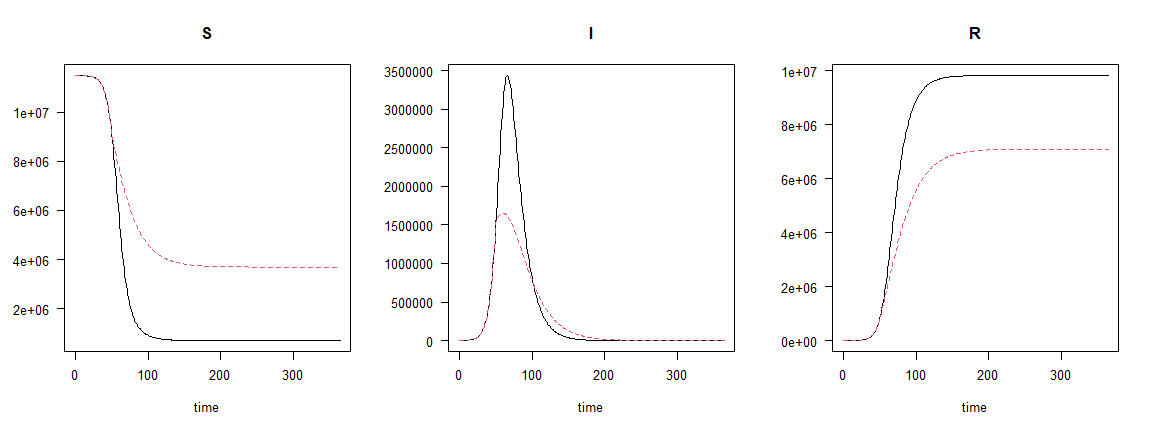
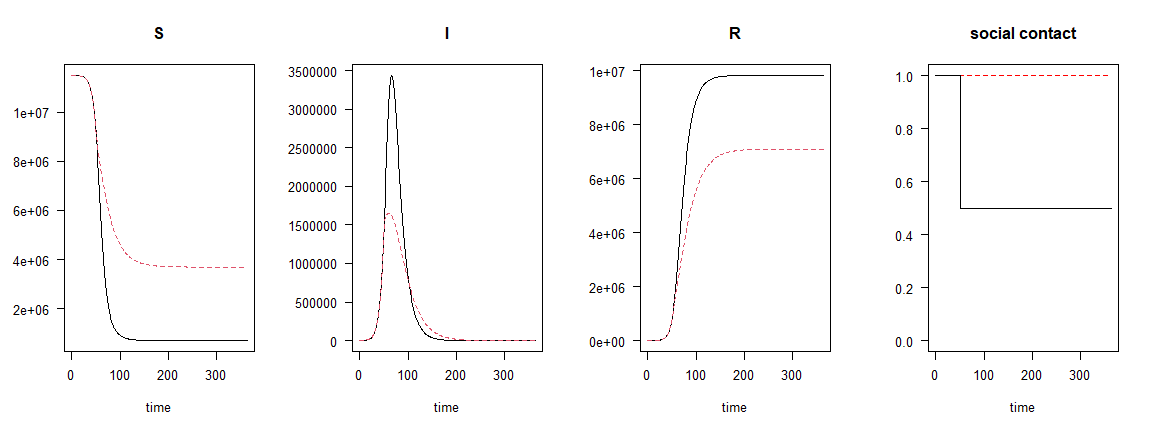
slide tweaks

diff --git a/docs/index.html b/docs/index.html
@@ -4,7 +4,7 @@
     <title>Numerical simulation of dynamic systems with R: an introduction</title>
     <meta charset="utf-8" />
     <meta name="author" content="Thomas Petzoldt and Karline Soetaert" />
-    <meta name="date" content="2021-06-15" />
+    <meta name="date" content="2021-06-18" />
     <script src="libs/header-attrs-2.8.4/header-attrs.js"></script>
     <link href="libs/remark-css-0.0.1/default.css" rel="stylesheet" />
     <link href="libs/remark-css-0.0.1/useR-fonts.css" rel="stylesheet" />
@@ -26,7 +26,7 @@ background-image: url("img/water-light.jpg")
 
 # Numerical simulation of dynamic systems with R: an introduction
 
-### Thomas Petzoldt and Karline Soetaert,  2021-06-15
+### Thomas Petzoldt and Karline Soetaert,  2021-06-18
 
 #### IMPORTANT NOTE
 
@@ -46,7 +46,7 @@ For the time being, please consult http://desolve.r-forge.r-project.org
 ---
 
 
-## Preface
+## Summary
 
 
 Dynamical systems are found everywhere, in mathematics, physics, chemistry, engineering and business - ecology and aquatic sciences are no exception.
@@ -201,8 +201,8 @@ J.W. Forrester 2009.
 \frac{dX}{dt} = \mbox{import} - \mbox{export}\\
 }$$`
 
-<div id="htmlwidget-f980fb3c278ccf86e885" style="width:1008px;height:288px;" class="grViz html-widget"></div>
-<script type="application/json" data-for="htmlwidget-f980fb3c278ccf86e885">{"x":{"diagram":"digraph feedback {\n         graph [rankdir = \"LR\"]\n           node [shape = box, penwidth=2, fontname = \"Helvetica\"]\n             Matter\n           node [shape = octagon, penwidth=0.5, style=\"rounded\", fixedsize=25, fontsize=8]\n             Source Sink\n           node [shape = none, fontsize=10]\n             import export\n           edge [penwidth=1.5]\n             Source -> import -> Matter -> export -> Sink\n         \n}","config":{"engine":"dot","options":null}},"evals":[],"jsHooks":[]}</script>
+<div id="htmlwidget-13da4407802a5132ab74" style="width:1008px;height:288px;" class="grViz html-widget"></div>
+<script type="application/json" data-for="htmlwidget-13da4407802a5132ab74">{"x":{"diagram":"digraph feedback {\n         graph [rankdir = \"LR\"]\n           node [shape = box, penwidth=2, fontname = \"Helvetica\"]\n             Matter\n           node [shape = octagon, penwidth=0.5, style=\"rounded\", fixedsize=25, fontsize=8]\n             Source Sink\n           node [shape = none, fontsize=10]\n             import export\n           edge [penwidth=1.5]\n             Source -> import -> Matter -> export -> Sink\n         \n}","config":{"engine":"dot","options":null}},"evals":[],"jsHooks":[]}</script>
 
 
 
@@ -214,8 +214,8 @@ J.W. Forrester 2009.
 \frac{dN}{dt} = \mbox{birthhrate} \cdot N - \mbox{deathrate}\cdot N\\
 \frac{dN}{dt} = b \cdot N - d \cdot N = (b-d) \cdot N = r \cdot N\\
 }$$`
-<div id="htmlwidget-3608ecf289aad2fdfcbb" style="width:1008px;height:288px;" class="grViz html-widget"></div>
-<script type="application/json" data-for="htmlwidget-3608ecf289aad2fdfcbb">{"x":{"diagram":"digraph feedback {\n         graph [rankdir = \"LR\"]\n           node [shape = box, penwidth=2, fontname = \"Helvetica\"]\n             Population\n           node [shape = octagon, penwidth=0.5, style=\"rounded\", fixedsize=25, fontsize=8]\n             Source Sink\n           node [shape = none, fontsize=10]\n             birth death\n           edge [penwidth=1.5]\n             Source -> birth -> Population -> death -> Sink\n           edge [penwidth=0.7, tailport = \"n\", headport = \"n\", constraint = false, color=tomato]\n             Population -> birth \n             Population -> death\n}","config":{"engine":"dot","options":null}},"evals":[],"jsHooks":[]}</script>
+<div id="htmlwidget-75c16dcaa22e77542c53" style="width:1008px;height:288px;" class="grViz html-widget"></div>
+<script type="application/json" data-for="htmlwidget-75c16dcaa22e77542c53">{"x":{"diagram":"digraph feedback {\n         graph [rankdir = \"LR\"]\n           node [shape = box, penwidth=2, fontname = \"Helvetica\"]\n             Population\n           node [shape = octagon, penwidth=0.5, style=\"rounded\", fixedsize=25, fontsize=8]\n             Source Sink\n           node [shape = none, fontsize=10]\n             birth death\n           edge [penwidth=1.5]\n             Source -> birth -> Population -> death -> Sink\n           edge [penwidth=0.7, tailport = \"n\", headport = \"n\", constraint = false, color=tomato]\n             Population -> birth \n             Population -> death\n}","config":{"engine":"dot","options":null}},"evals":[],"jsHooks":[]}</script>
 
 
 ---
@@ -245,6 +245,8 @@ plot(time, N, type="l")
 \ln(N) &amp;= rt + c\\
 N_t &amp;= N_0 e^{rt}\\
 \end{align}`
+
+&lt;br&gt;&lt;/br&gt;
 
 * Integral calculus = "Gold Standard" ...
 * ... but not always possible
@@ -280,6 +282,8 @@ plot(time, N, type = "l",
 N_t &amp;= N_{t-1} + r\cdot N_{t-1}
 \end{align}`
 
+&lt;br&gt;&lt;/br&gt;
+
 * differential equation `\(\rightarrow\)` difference equation
 * approximation with discrete time step
 * easy, but integration error
@@ -301,7 +305,7 @@ N_t &amp;= N_{t-1} + r\cdot N_{t-1}
 library("deSolve")
 model &lt;- function (time, y, parms) {
   with(as.list(c(y, parms)), {
-*  dN &lt;- r * N * (1 - N / K)
+*   dN &lt;- r * N * (1 - N / K)
     list(c(dN))
   })
 }
@@ -427,8 +431,8 @@ out &lt;- ode(y0,
 
 
 
-<div id="htmlwidget-d4a5a7eadf01ec1750b5" style="width:1008px;height:144px;" class="grViz html-widget"></div>
-<script type="application/json" data-for="htmlwidget-d4a5a7eadf01ec1750b5">{"x":{"diagram":"digraph feedback {\n         graph [rankdir = \"LR\"]\n           node [shape = box, penwidth=2, fontname = \"Helvetica\"]\n             Nutrient, Algae\n           node [shape = none, fontsize=10]\n             growth\n           edge [penwidth=1.5]\n             Nutrient -> growth -> Algae \n           edge [penwidth=0.7, tailport = \"n\", headport = \"n\", constraint = false, color=tomato]\n             Algae -> growth \n}","config":{"engine":"dot","options":null}},"evals":[],"jsHooks":[]}</script>
+<div id="htmlwidget-712b857eb9e7b5e856aa" style="width:1008px;height:144px;" class="grViz html-widget"></div>
+<script type="application/json" data-for="htmlwidget-712b857eb9e7b5e856aa">{"x":{"diagram":"digraph feedback {\n         graph [rankdir = \"LR\"]\n           node [shape = box, penwidth=2, fontname = \"Helvetica\"]\n             Nutrient, Algae\n           node [shape = none, fontsize=10]\n             growth\n           edge [penwidth=1.5]\n             Nutrient -> growth -> Algae \n           edge [penwidth=0.7, tailport = \"n\", headport = \"n\", constraint = false, color=tomato]\n             Algae -> growth \n}","config":{"engine":"dot","options":null}},"evals":[],"jsHooks":[]}</script>
 
 
 ---
@@ -436,21 +440,21 @@ out &lt;- ode(y0,
 
 ### System of equations
 
-<div id="htmlwidget-eef35bd262ebbcc1099c" style="width:1008px;height:144px;" class="grViz html-widget"></div>
-<script type="application/json" data-for="htmlwidget-eef35bd262ebbcc1099c">{"x":{"diagram":"digraph feedback {\n         graph [rankdir = \"LR\"]\n           node [shape = box, penwidth=2, fontname = \"Helvetica\"]\n             Nutrient, Algae\n           node [shape = none, fontsize=10]\n             growth\n           edge [penwidth=1.5]\n             Nutrient -> growth -> Algae \n           edge [penwidth=0.7, tailport = \"n\", headport = \"n\", constraint = false, color=tomato]\n             Algae -> growth \n}","config":{"engine":"dot","options":null}},"evals":[],"jsHooks":[]}</script>
+<div id="htmlwidget-7ffc19037c449f25c42b" style="width:1008px;height:144px;" class="grViz html-widget"></div>
+<script type="application/json" data-for="htmlwidget-7ffc19037c449f25c42b">{"x":{"diagram":"digraph feedback {\n         graph [rankdir = \"LR\"]\n           node [shape = box, penwidth=2, fontname = \"Helvetica\"]\n             Nutrient, Algae\n           node [shape = none, fontsize=10]\n             growth\n           edge [penwidth=1.5]\n             Nutrient -> growth -> Algae \n           edge [penwidth=0.7, tailport = \"n\", headport = \"n\", constraint = false, color=tomato]\n             Algae -> growth \n}","config":{"engine":"dot","options":null}},"evals":[],"jsHooks":[]}</script>
 
 ----
 
 `\begin{align}
-\frac{d\mbox{Algae}}{dt} &amp;=       &amp; &amp;r \cdot f(\mbox{Nutrients}) \cdot \mbox{Algae}\\
+\frac{d\mbox{Algae}}{dt} &amp;=       &amp; &amp;r \cdot f(\mbox{Nutrient}) \cdot \mbox{Algae}\\
 \\
-\frac{d\mbox{Nutrients}}{dt} &amp;=   &amp;- &amp; r \cdot f(\mbox{Nutrients}) \cdot  \mbox{Algae} \cdot \frac{1}{Y} 
+\frac{d\mbox{Nutrient}}{dt} &amp;=   &amp;- &amp; r \cdot f(\mbox{Nutrient}) \cdot  \mbox{Algae} \cdot \frac{1}{Y} 
 \end{align}`
 
 with:
 
 $$
-f(\mbox{Nutrients}) =  \text{functional response, e.g. Holling I, II, III}
+f(\mbox{Nutrient}) =  \text{functional response, e.g. Holling I, II, III}
 $$
 
 
@@ -465,12 +469,15 @@ $$
 model &lt;- function (time, y, parms) {
   with(as.list(c(y, parms)), {
     f &lt;- P/(kP + P)
-    dAlg &lt;- r * f * Alg
-    dP   &lt;- - r * 1/Y * f * Alg
-    list(c(dAlg, dP))
+    dAlg_dt &lt;- r * f * Alg
+    dP_dt   &lt;- - r * 1/Y * f * Alg
+    list(c(dAlg_dt, dP_dt))
   })
 }
-y &lt;- c(Alg = 0.1, P = 0.2) # in mg/L
+y &lt;- c(
+  Alg = 0.1, # algae,      mg/L carbon
+  P   = 0.2  # phosphorus, mg/L P
+) # in mg/L
 parms &lt;- c(r = 0.1, kP = 5e-3, Y = 41) # Y = C:P mass ratio
 ```
 
@@ -529,8 +536,8 @@ legend("topright", legend=c("Scenario 1", "Scenario 2"), lty=1:2, col=1:2)
 
 ## A standard SIR model
 
-<div id="htmlwidget-8bd7e9b64a3d675a5486" style="width:1008px;height:288px;" class="grViz html-widget"></div>
-<script type="application/json" data-for="htmlwidget-8bd7e9b64a3d675a5486">{"x":{"diagram":"digraph feedback {\n         graph [rankdir = \"LR\"]\n           node [shape = box, penwidth=2, fontname = \"Helvetica\", style=\"filled\", color=\"dodgerblue\"]\n             S, I, R\n           node [shape = none, fontsize=10, style=\"\"]\n             infection, recovery, mortality\n            node [shape = octagon, penwidth=0.5, style=\"rounded\", fixedsize=25, fontsize=8]\n             X\n           edge [penwidth=1.5]\n             S -> infection -> I\n             I -> recovery -> R\n             I -> mortality\n             mortality -> X\n}","config":{"engine":"dot","options":null}},"evals":[],"jsHooks":[]}</script>
+<div id="htmlwidget-7aa1a22d78909258bd52" style="width:1008px;height:288px;" class="grViz html-widget"></div>
+<script type="application/json" data-for="htmlwidget-7aa1a22d78909258bd52">{"x":{"diagram":"digraph feedback {\n         graph [rankdir = \"LR\"]\n           node [shape = box, penwidth=2, fontname = \"Helvetica\", style=\"filled\", color=\"dodgerblue\"]\n             S, I, R\n           node [shape = none, fontsize=10, style=\"\"]\n             infection, recovery, mortality\n            node [shape = octagon, penwidth=0.5, style=\"rounded\", fixedsize=25, fontsize=8]\n             X\n           edge [penwidth=1.5]\n             S -> infection -> I\n             I -> recovery -> R\n             I -> mortality\n             mortality -> X\n}","config":{"engine":"dot","options":null}},"evals":[],"jsHooks":[]}</script>
 
 #### Total population is subdivided into 3 subpopulations
 
@@ -618,21 +625,21 @@ plot(out, las=1, mfrow=c(1,4))
 ```r
 SIR_distancing &lt;- function(t, state, parameters) {
   with (as.list(c(state, parameters)), {
-    rho &lt;- f_rho(t)
-    Infection &lt;- rho * b * S * I
+*   contact &lt;- f_contact(t)
+    Infection &lt;- contact * b * S * I
     Recovery  &lt;- g * I
     Mortality &lt;- m * I
     
-    dSdt      &lt;- -Infection 
-    dIdt      &lt;-  Infection - Recovery - Mortality
-    dRdt      &lt;-  Recovery
+    dS_dt     &lt;- -Infection 
+    dI_dt     &lt;-  Infection - Recovery - Mortality
+    dR_dt     &lt;-  Recovery
 
-    list(c(dSdt, dIdt, dRdt),      # the time derivatives
-                 Population = S+I+R)            # extra output variable
+    list(c(dS_dt, dI_dt, dR_dt),      # the time derivatives
+                 Population = S+I+R)  # extra output variable
   }) 
 }
 
-f_rho &lt;- approxfun(x=c(0, 50, 51, 365), y=c(1, 1, 0.5, 0.5), rule=2)
+*f_contact &lt;- approxfun(x = c(0, 50,  51, 365), y = c(1,  1, 0.5, 0.5), rule=2)
 
 y0 &lt;- c(S = 11500000 - 1000, I = 1000, R = 0)
 
@@ -645,7 +652,11 @@ parms &lt;- c(
 
 times &lt;- seq(from=0, to=365, by=1)   # time sequence, in days
 out2   &lt;- ode(y = y0, times=times, func=SIR_distancing, parms=parms)
-plot(out, out2, las=1, which=c("S", "I", "R"), mfrow=c(1,3))
+plot(out, out2, las=1, which=c("S", "I", "R"), mfrow=c(1,4))
+plot(times, rep(1, length(times)), 
+     ylim=c(0,1), type="l", xlab="time", ylab="", 
+     main="social contact", las=1, lty=2, col="red")
+lines(times, f_contact(times))
 ```
 
 ![](index_files/figure-html/SIR-distancing-1.png)&lt;!-- --&gt;
@@ -753,8 +764,8 @@ plot(S * X ~ D, data = state, type = "l")
 
 ### Lotka-Volterra's Predator and Prey
 
-<div id="htmlwidget-68c50c6c76e9e4f4a909" style="width:1008px;height:288px;" class="grViz html-widget"></div>
-<script type="application/json" data-for="htmlwidget-68c50c6c76e9e4f4a909">{"x":{"diagram":"digraph lotka {\n         graph [rankdir = \"LR\"]\n           node [shape = box, penwidth=2, fontname = \"Helvetica\"]\n             Predator, Prey\n           node [shape = octagon, penwidth=0.5, style=\"rounded\", fixedsize=25, fontsize=8]\n             Source Sink\n           node [shape = none, fontsize=10]\n             growth death grazing\n           edge [penwidth=1.5]\n             Source -> growth -> Prey -> grazing -> Predator -> death -> Sink\n           edge [penwidth=0.7, tailport = \"n\", headport = \"n\", constraint = false, color=tomato]\n             Prey -> growth\n             Predator -> grazing\n           edge [penwidth=0.7, tailport = \"s\", headport = \"s\", constraint = false, color=tomato]\n             Prey -> grazing\n             Predator -> death\n\n}","config":{"engine":"dot","options":null}},"evals":[],"jsHooks":[]}</script>
+<div id="htmlwidget-ed5040292f00e3e11dde" style="width:1008px;height:288px;" class="grViz html-widget"></div>
+<script type="application/json" data-for="htmlwidget-ed5040292f00e3e11dde">{"x":{"diagram":"digraph lotka {\n         graph [rankdir = \"LR\"]\n           node [shape = box, penwidth=2, fontname = \"Helvetica\"]\n             Predator, Prey\n           node [shape = octagon, penwidth=0.5, style=\"rounded\", fixedsize=25, fontsize=8]\n             Source Sink\n           node [shape = none, fontsize=10]\n             growth death grazing\n           edge [penwidth=1.5]\n             Source -> growth -> Prey -> grazing -> Predator -> death -> Sink\n           edge [penwidth=0.7, tailport = \"n\", headport = \"n\", constraint = false, color=tomato]\n             Prey -> growth\n             Predator -> grazing\n           edge [penwidth=0.7, tailport = \"s\", headport = \"s\", constraint = false, color=tomato]\n             Prey -> grazing\n             Predator -> death\n\n}","config":{"engine":"dot","options":null}},"evals":[],"jsHooks":[]}</script>
 
 * state diagram, cycles
 * damped cycle if we introduce a Monod term
@@ -764,23 +775,23 @@ plot(S * X ~ D, data = state, type = "l")
 
 ---
 
-### Lotka Voltera Model
+### Lotka-Volterra Model
 
-<div id="htmlwidget-6707784ac9344622babb" style="width:1008px;height:144px;" class="grViz html-widget"></div>
-<script type="application/json" data-for="htmlwidget-6707784ac9344622babb">{"x":{"diagram":"digraph lotka {\n         graph [rankdir = \"LR\"]\n           node [shape = box, penwidth=2, fontname = \"Helvetica\"]\n             Predator, Prey\n           node [shape = octagon, penwidth=0.5, style=\"rounded\", fixedsize=25, fontsize=8]\n             Source Sink\n           node [shape = none, fontsize=10]\n             growth death grazing\n           edge [penwidth=1.5]\n             Source -> growth -> Prey -> grazing -> Predator -> death -> Sink\n           edge [penwidth=0.7, tailport = \"n\", headport = \"n\", constraint = false, color=tomato]\n             Prey -> growth\n             Predator -> grazing\n           edge [penwidth=0.7, tailport = \"s\", headport = \"s\", constraint = false, color=tomato]\n             Prey -> grazing\n             Predator -> death\n\n}","config":{"engine":"dot","options":null}},"evals":[],"jsHooks":[]}</script>
+<div id="htmlwidget-c44f4f69827a10f9bdbc" style="width:1008px;height:144px;" class="grViz html-widget"></div>
+<script type="application/json" data-for="htmlwidget-c44f4f69827a10f9bdbc">{"x":{"diagram":"digraph lotka {\n         graph [rankdir = \"LR\"]\n           node [shape = box, penwidth=2, fontname = \"Helvetica\"]\n             Predator, Prey\n           node [shape = octagon, penwidth=0.5, style=\"rounded\", fixedsize=25, fontsize=8]\n             Source Sink\n           node [shape = none, fontsize=10]\n             growth death grazing\n           edge [penwidth=1.5]\n             Source -> growth -> Prey -> grazing -> Predator -> death -> Sink\n           edge [penwidth=0.7, tailport = \"n\", headport = \"n\", constraint = false, color=tomato]\n             Prey -> growth\n             Predator -> grazing\n           edge [penwidth=0.7, tailport = \"s\", headport = \"s\", constraint = false, color=tomato]\n             Prey -> grazing\n             Predator -> death\n\n}","config":{"engine":"dot","options":null}},"evals":[],"jsHooks":[]}</script>
 
 `\begin{align}
-\frac{dX}{dt} &amp;= \mbox{Growth} - \mbox{Grazing} \qquad &amp; \mbox{(Prey)}\\
+\frac{dPrey}{dt} &amp;= \mbox{Growth} - \mbox{Grazing}\\
 \\
-\frac{dY}{dt} &amp;= g \cdot \mbox{Grazing} - \mbox{Mortality}  \qquad &amp; \mbox{(Predator)}
+\frac{dPredator}{dt} &amp;= g \cdot \mbox{Grazing} - \mbox{Mortality}
 \end{align}`
 
 With:
 
 `\begin{align}
-\mbox{Growth}    &amp; = a \cdot X &amp; \qquad \text{(exponential growth)}\\
-\mbox{Grazing}   &amp; = b \cdot X \cdot Y &amp; \qquad \text{(interaction)}\\
-\mbox{Mortalily} &amp; = -e \cdot Y &amp; \qquad \text{(exponential decay)}
+\mbox{Growth}    &amp; = a \cdot Prey &amp; \qquad \text{(exponential growth)}\\
+\mbox{Grazing}   &amp; = b \cdot Prey \cdot Pred &amp; \qquad \text{(interaction)}\\
+\mbox{Mortality} &amp; = -e \cdot Pred &amp; \qquad \text{(exponential decay)}
 \end{align}`
 
 ---
@@ -795,18 +806,18 @@ With:
 
 ```r
 require(deSolve)   
-y0      &lt;- c(X=300, Y=10)            # state variable initial conditions
+y0      &lt;- c(Prey=300, Pred=10)            # state variable initial conditions
 parms   &lt;- c(a=0.05, K=500, b=0.0002, g=0.8, e=0.03)  # parameter values
 
 LV &lt;- function(t, state, parameters) { 
   with (as.list(c(state, parameters)), {
-    Growth     &lt;- a*X
-    Grazing    &lt;- b*X*Y
-    Mortality  &lt;- e*Y
-    dXdt &lt;- Growth - Grazing
-    dYdt &lt;- g * Grazing - Mortality
-    return (list(c(dXdt, dYdt),  # vector of derivatives
-                 sum = X+Y))     # output variable
+    Growth     &lt;- a * Prey
+    Grazing    &lt;- b * Prey * Pred
+    Mortality  &lt;- e * Pred
+    dPrey_dt &lt;- Growth - Grazing
+    dPred_dt &lt;- g * Grazing - Mortality
+    return (list(c(dPrey_dt, dPred_dt),  # vector of derivatives
+                 sum = Prey + Pred))     # output variable
   })
 }
 times &lt;- 1:1000
@@ -826,10 +837,10 @@ plot(out, mfrow = c(1, 3), las=1)
 ```r
 model &lt;- function(t, n, parms) {
   with(as.list(c(n, parms)), {
-    dn1 &lt;- r1 * n1 - a13 * n1 * n3
-    dn2 &lt;- r2 * n2 - a24 * n2 * n4
-    dn3 &lt;- a13 * n1 * n3 - r3 * n3
-    dn4 &lt;- a24 * n2 * n4 - r4 * n4
+    dn1 &lt;- r1 * n1 - a13 * n1 * n3   # Prey1
+    dn2 &lt;- r2 * n2 - a24 * n2 * n4   # Prey2
+    dn3 &lt;- a13 * n1 * n3 - r3 * n3   # Predator1
+    dn4 &lt;- a24 * n2 * n4 - r4 * n4   # Predator2
     return(list(c(dn1, dn2, dn3, dn4)))
   })
 }
@@ -849,7 +860,7 @@ out &lt;- ode(n0, times, model, parms)
 ```r
 model &lt;- function(t, n, parms) {
   with(parms, {
-*    dn &lt;- r * n  + n * (A %*% n)
+*   dn &lt;- r * n  + n * (A %*% n)
     return(list(dn))
   })
 }
